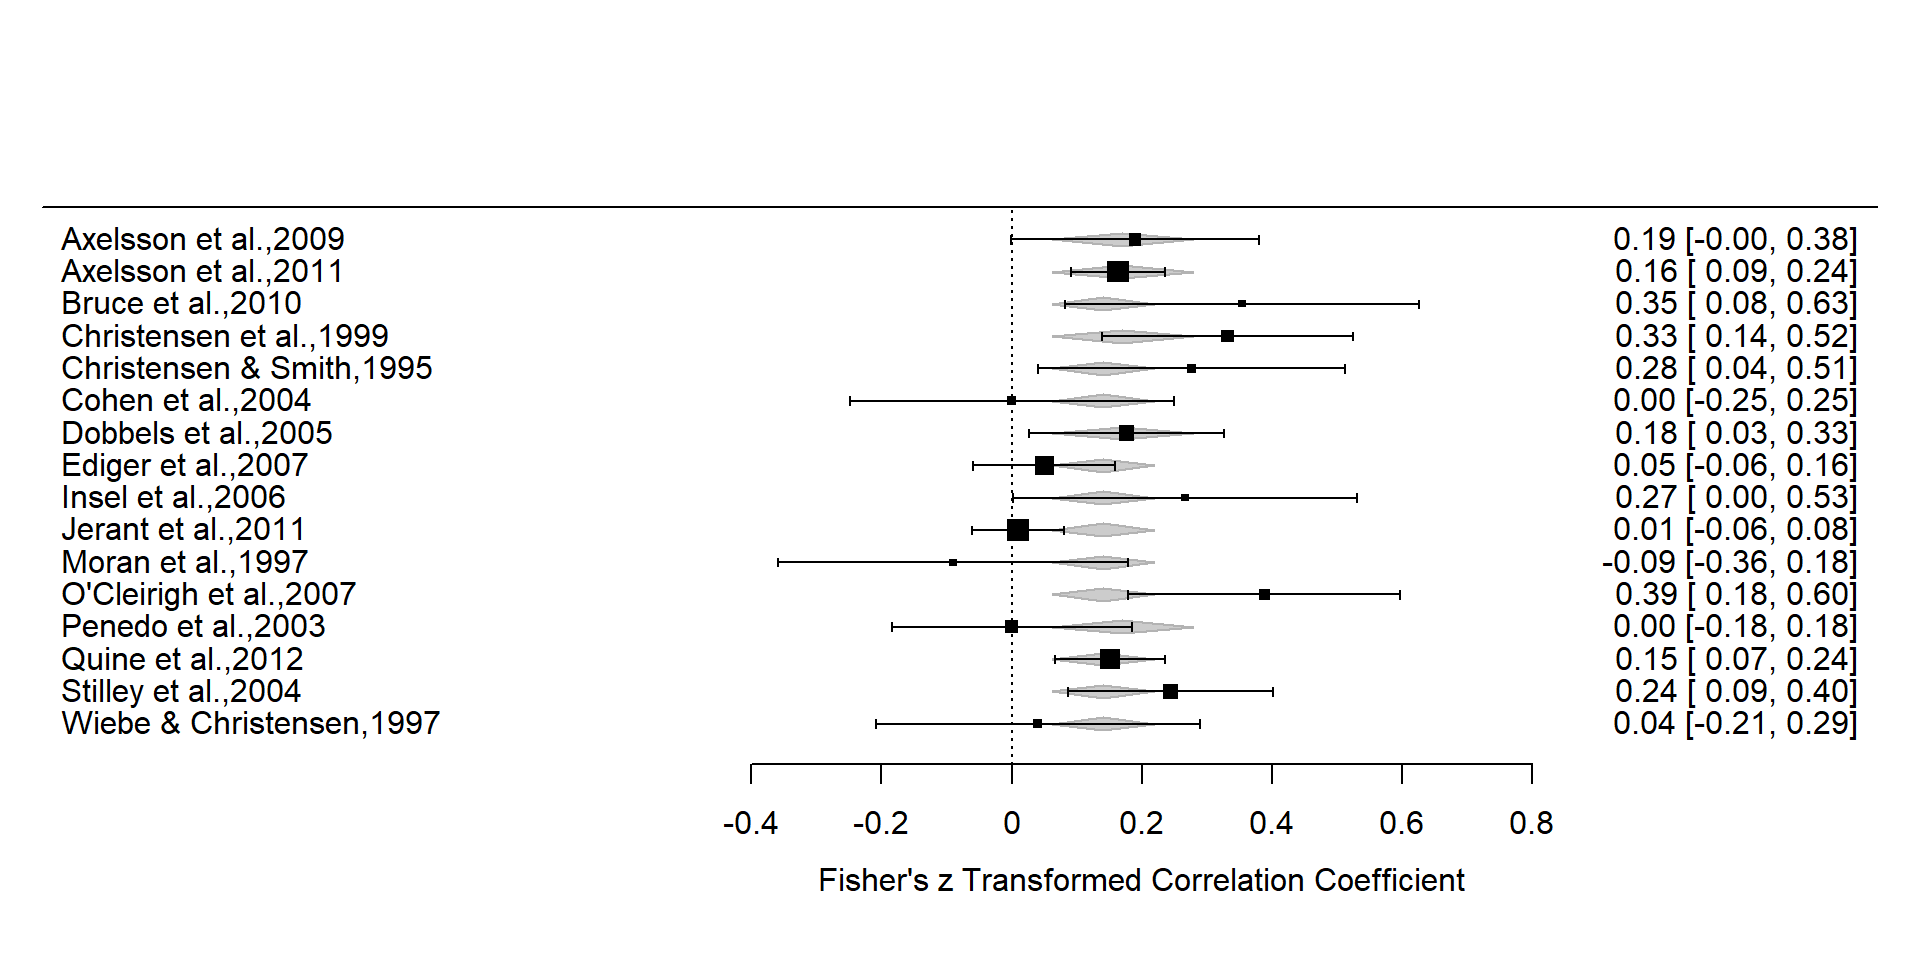
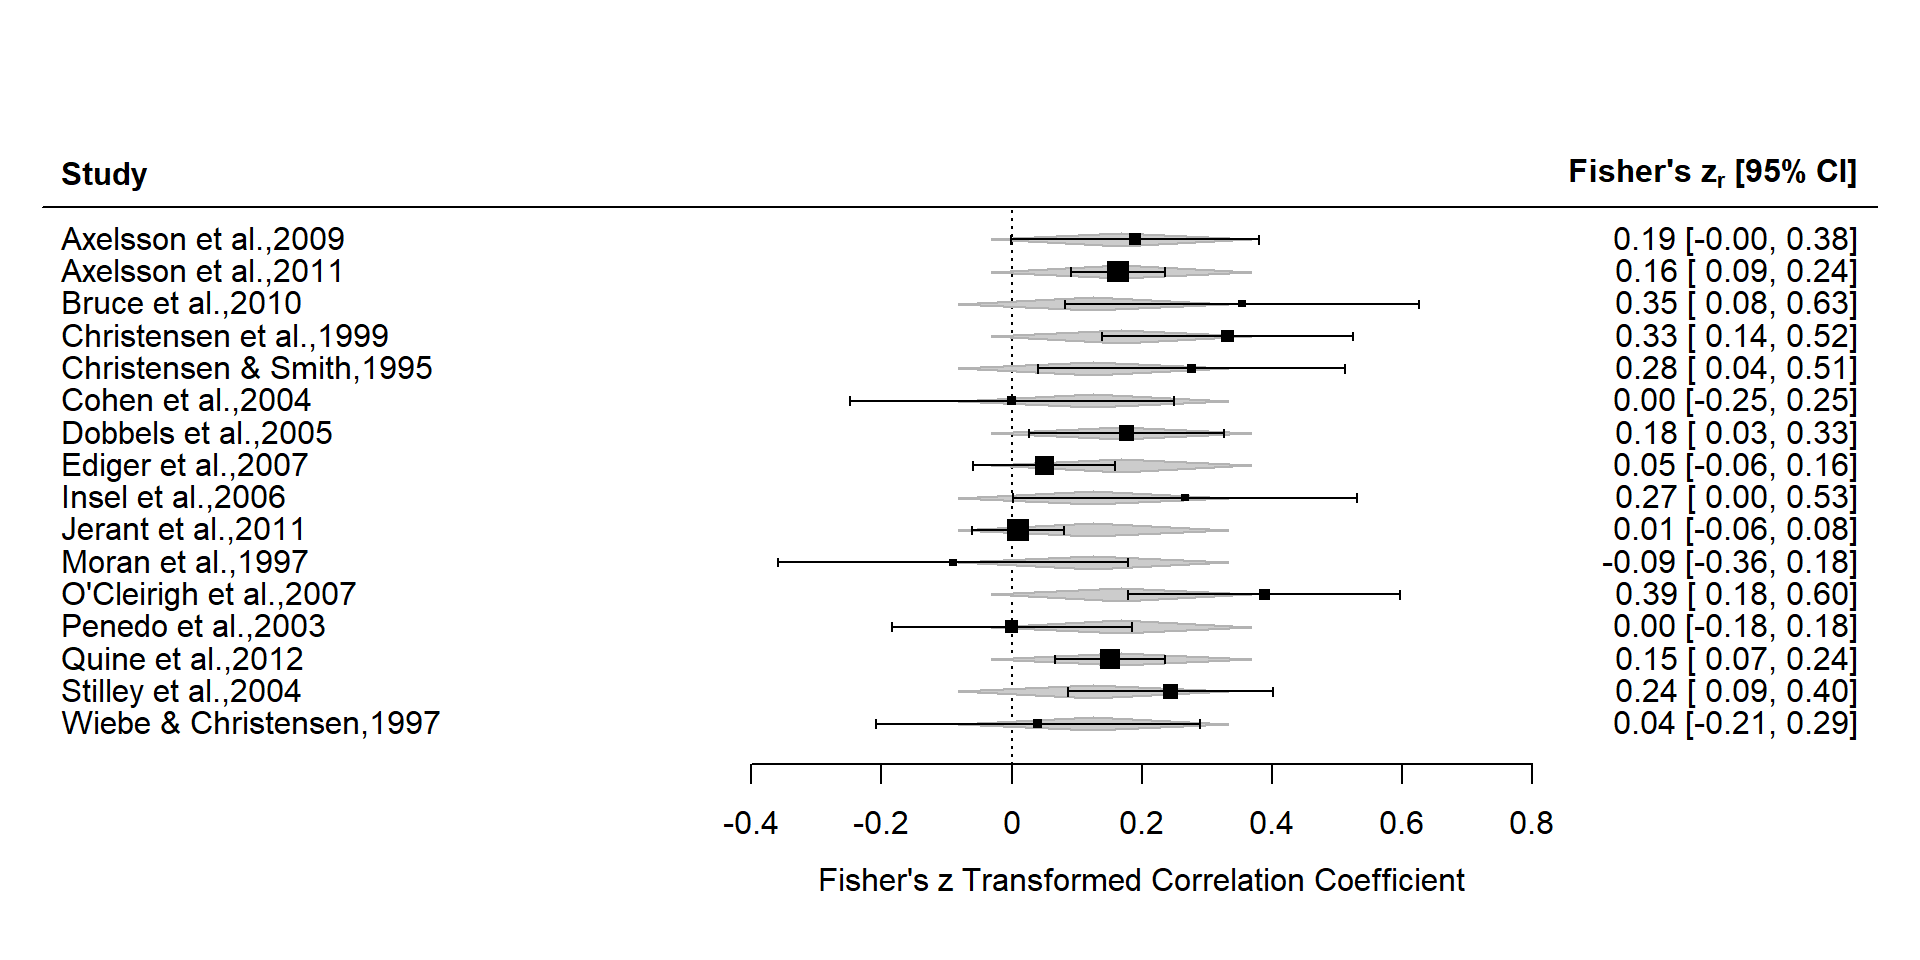
2025 version

diff --git a/docs/index.html b/docs/index.html
@@ -157,7 +157,7 @@ ul.task-list li input[type="checkbox"] {
 <!-- margin-sidebar -->
     <div id="quarto-margin-sidebar" class="sidebar margin-sidebar">
         
-    <h5 class="quarto-listing-category-title">Categories</h5><div class="quarto-listing-category category-default"><div class="category" data-category="">All <span class="quarto-category-count">(10)</span></div></div></div>
+    <h5 class="quarto-listing-category-title">Categories</h5><div class="quarto-listing-category category-default"><div class="category" data-category="">All <span class="quarto-category-count">(11)</span></div></div></div>
 <!-- main -->
 <main class="content quarto-banner-title-block column-page-left" id="quarto-document-content">
 
@@ -191,7 +191,7 @@ The following is a template of a study design where we randomly generated data t
 <a href="./posts/Assignment 1/index.html"> </a>
 </div>
 </div>
-<div class="quarto-post image-right" data-index="1" data-listing-date-sort="1741046400000" data-listing-file-modified-sort="1738532231158" data-listing-date-modified-sort="NaN" data-listing-reading-time-sort="10">
+<div class="quarto-post image-right" data-index="1" data-listing-date-sort="1743462000000" data-listing-file-modified-sort="1738532231158" data-listing-date-modified-sort="NaN" data-listing-reading-time-sort="10">
 <div class="thumbnail">
 <p><a href="./posts/Introduction to Advanced Statistics/index.html"> <img src="./posts/Introduction to Advanced Statistics/image1.jpg" class="thumbnail-image"> </a></p>
 </div>
@@ -211,7 +211,7 @@ Introduction to Advanced Statistics
 <div class="metadata">
 <a href="./posts/Introduction to Advanced Statistics/index.html">
 <div class="listing-date">
-Mar 4, 2025
+Apr 1, 2025
 </div>
 <div class="listing-author">
 Dr Lazaros Gonidis
@@ -219,7 +219,91 @@ Dr Lazaros Gonidis
 </a>
 </div>
 </div>
-<div class="quarto-post image-right" data-index="2" data-listing-date-sort="1739232000000" data-listing-file-modified-sort="1739271524861" data-listing-date-modified-sort="NaN" data-listing-reading-time-sort="6">
+<div class="quarto-post image-right" data-index="2" data-listing-date-sort="1743292800000" data-listing-file-modified-sort="1743500529704" data-listing-date-modified-sort="NaN" data-listing-reading-time-sort="10">
+<div class="thumbnail">
+<p><a href="./posts/Meta Analysis I/index.html"> <img src="./posts/Meta Analysis I/image1.jpg" class="thumbnail-image"> </a></p>
+</div>
+<div class="body">
+<a href="./posts/Meta Analysis I/index.html">
+<h3 class="no-anchor listing-title">
+Meta-Analysis I
+</h3>
+<div class="listing-subtitle">
+
+</div>
+<div class="listing-description">
+
+</div>
+</a>
+</div>
+<div class="metadata">
+<a href="./posts/Meta Analysis I/index.html">
+<div class="listing-date">
+Mar 30, 2025
+</div>
+<div class="listing-author">
+Dr Lazaros Gonidis
+</div>
+</a>
+</div>
+</div>
+<div class="quarto-post image-right" data-index="3" data-listing-date-sort="1743292800000" data-listing-file-modified-sort="1743500569860" data-listing-date-modified-sort="NaN" data-listing-reading-time-sort="1">
+<div class="thumbnail">
+<p><a href="./posts/Meta Analysis II/index.html"> <img src="./posts/Meta Analysis II/image1.jpg" class="thumbnail-image"> </a></p>
+</div>
+<div class="body">
+<a href="./posts/Meta Analysis II/index.html">
+<h3 class="no-anchor listing-title">
+Meta-Analysis II: Subgroup Analysis
+</h3>
+<div class="listing-subtitle">
+
+</div>
+<div class="listing-description">
+
+</div>
+</a>
+</div>
+<div class="metadata">
+<a href="./posts/Meta Analysis II/index.html">
+<div class="listing-date">
+Mar 30, 2025
+</div>
+<div class="listing-author">
+Dr Lazaros Gonidis
+</div>
+</a>
+</div>
+</div>
+<div class="quarto-post image-right" data-index="4" data-listing-date-sort="1739404800000" data-listing-file-modified-sort="1741084037624" data-listing-date-modified-sort="NaN" data-listing-reading-time-sort="7">
+<div class="thumbnail">
+<p><a href="./posts/Confirmatory Factor Analysis/index.html"> <img src="./posts/Confirmatory Factor Analysis/image1.jpg" class="thumbnail-image"> </a></p>
+</div>
+<div class="body">
+<a href="./posts/Confirmatory Factor Analysis/index.html">
+<h3 class="no-anchor listing-title">
+Confirmatory Factor Analysis
+</h3>
+<div class="listing-subtitle">
+
+</div>
+<div class="listing-description">
+
+</div>
+</a>
+</div>
+<div class="metadata">
+<a href="./posts/Confirmatory Factor Analysis/index.html">
+<div class="listing-date">
+Feb 13, 2025
+</div>
+<div class="listing-author">
+Dr Lazaros Gonidis
+</div>
+</a>
+</div>
+</div>
+<div class="quarto-post image-right" data-index="5" data-listing-date-sort="1739232000000" data-listing-file-modified-sort="1741084037627" data-listing-date-modified-sort="NaN" data-listing-reading-time-sort="6">
 <div class="thumbnail">
 <p><a href="./posts/Exploratory Factor Analysis/index.html"> <img src="./posts/Exploratory Factor Analysis/image1.jpg" class="thumbnail-image"> </a></p>
 </div>
@@ -247,7 +331,7 @@ Dr Lazaros Gonidis
 </a>
 </div>
 </div>
-<div class="quarto-post image-right" data-index="3" data-listing-date-sort="1738540800000" data-listing-file-modified-sort="1738582074078" data-listing-date-modified-sort="NaN" data-listing-reading-time-sort="6">
+<div class="quarto-post image-right" data-index="6" data-listing-date-sort="1738540800000" data-listing-file-modified-sort="1738582074078" data-listing-date-modified-sort="NaN" data-listing-reading-time-sort="6">
 <div class="thumbnail">
 <p><a href="./posts/Introduction to S.E.M/index.html"> <img src="./posts/Introduction to S.E.M/image1.jpg" class="thumbnail-image"> </a></p>
 </div>
@@ -275,7 +359,7 @@ Dr Lazaros Gonidis
 </a>
 </div>
 </div>
-<div class="quarto-post image-right" data-index="4" data-listing-date-sort="1713567600000" data-listing-file-modified-sort="1713739593523" data-listing-date-modified-sort="NaN" data-listing-reading-time-sort="5">
+<div class="quarto-post image-right" data-index="7" data-listing-date-sort="1713567600000" data-listing-file-modified-sort="1713739593523" data-listing-date-modified-sort="NaN" data-listing-reading-time-sort="5">
 <div class="thumbnail">
 <p><a href="./posts/Cross-Lagged Panel Models/index.html"> <img src="./posts/Cross-Lagged Panel Models/image1.jpg" class="thumbnail-image"> </a></p>
 </div>
@@ -303,14 +387,14 @@ Dr Lazaros Gonidis
 </a>
 </div>
 </div>
-<div class="quarto-post image-right" data-index="5" data-listing-date-sort="1711065600000" data-listing-file-modified-sort="1711367817013" data-listing-date-modified-sort="NaN" data-listing-reading-time-sort="1">
+<div class="quarto-post image-right" data-index="8" data-listing-date-sort="1710201600000" data-listing-file-modified-sort="1741084037625" data-listing-date-modified-sort="NaN" data-listing-reading-time-sort="1">
 <div class="thumbnail">
-<p><a href="./posts/Meta Analysis II/index.html"> <img src="./posts/Meta Analysis II/image1.jpg" class="thumbnail-image"> </a></p>
+<p><a href="./posts/Discussing Meta Analysis/index.html"> <img src="./posts/Discussing Meta Analysis/image1.jpg" class="thumbnail-image"> </a></p>
 </div>
 <div class="body">
-<a href="./posts/Meta Analysis II/index.html">
+<a href="./posts/Discussing Meta Analysis/index.html">
 <h3 class="no-anchor listing-title">
-Meta-Analysis II: Subgroup Analysis
+Discussing Meta Analysis
 </h3>
 <div class="listing-subtitle">
 
@@ -321,35 +405,7 @@ Meta-Analysis II: Subgroup Analysis
 </a>
 </div>
 <div class="metadata">
-<a href="./posts/Meta Analysis II/index.html">
-<div class="listing-date">
-Mar 22, 2024
-</div>
-<div class="listing-author">
-Dr Lazaros Gonidis
-</div>
-</a>
-</div>
-</div>
-<div class="quarto-post image-right" data-index="6" data-listing-date-sort="1710201600000" data-listing-file-modified-sort="1710723679466" data-listing-date-modified-sort="NaN" data-listing-reading-time-sort="10">
-<div class="thumbnail">
-<p><a href="./posts/Meta Analysis I/index.html"> <img src="./posts/Meta Analysis I/image1.jpg" class="thumbnail-image"> </a></p>
-</div>
-<div class="body">
-<a href="./posts/Meta Analysis I/index.html">
-<h3 class="no-anchor listing-title">
-Meta-Analysis I
-</h3>
-<div class="listing-subtitle">
-
-</div>
-<div class="listing-description">
-
-</div>
-</a>
-</div>
-<div class="metadata">
-<a href="./posts/Meta Analysis I/index.html">
+<a href="./posts/Discussing Meta Analysis/index.html">
 <div class="listing-date">
 Mar 12, 2024
 </div>
@@ -359,7 +415,7 @@ Dr Lazaros Gonidis
 </a>
 </div>
 </div>
-<div class="quarto-post image-right" data-index="7" data-listing-date-sort="1709424000000" data-listing-file-modified-sort="1741083837533" data-listing-date-modified-sort="NaN" data-listing-reading-time-sort="6">
+<div class="quarto-post image-right" data-index="9" data-listing-date-sort="1709424000000" data-listing-file-modified-sort="1741083837533" data-listing-date-modified-sort="NaN" data-listing-reading-time-sort="6">
 <div class="thumbnail">
 <p><a href="./posts/Latent Growth Models/index.html"> <img src="./posts/Latent Growth Models/image1.jpg" class="thumbnail-image"> </a></p>
 </div>
@@ -387,35 +443,7 @@ Dr Lazaros Gonidis
 </a>
 </div>
 </div>
-<div class="quarto-post image-right" data-index="8" data-listing-date-sort="1708300800000" data-listing-file-modified-sort="1709495680508" data-listing-date-modified-sort="NaN" data-listing-reading-time-sort="7">
-<div class="thumbnail">
-<p><a href="./posts/Confirmatory Factor Analysis/index.html"> <img src="./posts/Confirmatory Factor Analysis/image1.jpg" class="thumbnail-image"> </a></p>
-</div>
-<div class="body">
-<a href="./posts/Confirmatory Factor Analysis/index.html">
-<h3 class="no-anchor listing-title">
-Confirmatory Factor Analysis
-</h3>
-<div class="listing-subtitle">
-
-</div>
-<div class="listing-description">
-
-</div>
-</a>
-</div>
-<div class="metadata">
-<a href="./posts/Confirmatory Factor Analysis/index.html">
-<div class="listing-date">
-Feb 19, 2024
-</div>
-<div class="listing-author">
-Dr Lazaros Gonidis
-</div>
-</a>
-</div>
-</div>
-<div class="quarto-post image-right" data-index="9" data-listing-date-sort="1706313600000" data-listing-file-modified-sort="1707080074370" data-listing-date-modified-sort="NaN" data-listing-reading-time-sort="9">
+<div class="quarto-post image-right" data-index="10" data-listing-date-sort="1706313600000" data-listing-file-modified-sort="1707080074370" data-listing-date-modified-sort="NaN" data-listing-reading-time-sort="9">
 <div class="thumbnail">
 <p><a href="./posts/Introduction to Mediation (with lavaan)/index.html"> <img src="./posts/Introduction to Mediation (with lavaan)/image1.jpg" class="thumbnail-image"> </a></p>
 </div>

diff --git a/docs/posts/Meta Analysis II/index.html b/docs/posts/Meta Analysis II/index.html
@@ -11,7 +11,7 @@
   <meta name="generator" content="quarto-1.3.450">
 
   <meta name="author" content="Dr Lazaros Gonidis">
-  <meta name="dcterms.date" content="2024-03-22">
+  <meta name="dcterms.date" content="2025-03-30">
   <title>AdvancedStatistics - Meta-Analysis II: Subgroup Analysis</title>
   <meta name="apple-mobile-web-app-capable" content="yes">
   <meta name="apple-mobile-web-app-status-bar-style" content="black-translucent">
@@ -403,7 +403,7 @@ Dr Lazaros Gonidis
 </div>
 </div>
 
-  <p class="date">2024-03-22</p>
+  <p class="date">2025-03-30</p>
 </section>
 <section id="metafor-diagram" class="slide level2">
 <h2>metafor diagram</h2>
@@ -418,9 +418,10 @@ Dr Lazaros Gonidis
 <span id="cb1-2"><a href="#cb1-2"></a><span class="fu">library</span>(metafor)</span>
 <span id="cb1-3"><a href="#cb1-3"></a><span class="fu">library</span>(metadat)</span>
 <span id="cb1-4"><a href="#cb1-4"></a></span>
-<span id="cb1-5"><a href="#cb1-5"></a>df <span class="ot">&lt;-</span> <span class="fu">get</span>(<span class="fu">data</span>(dat.molloy2014))</span>
-<span id="cb1-6"><a href="#cb1-6"></a></span>
-<span id="cb1-7"><a href="#cb1-7"></a><span class="fu">head</span>(df)</span></code><button title="Copy to Clipboard" class="code-copy-button"><i class="bi"></i></button></pre></div>
+<span id="cb1-5"><a href="#cb1-5"></a><span class="co"># https://cran.r-project.org/web/packages/metadat/readme/README.html</span></span>
+<span id="cb1-6"><a href="#cb1-6"></a>df <span class="ot">&lt;-</span> <span class="fu">get</span>(<span class="fu">data</span>(dat.molloy2014))</span>
+<span id="cb1-7"><a href="#cb1-7"></a></span>
+<span id="cb1-8"><a href="#cb1-8"></a><span class="fu">head</span>(df)</span></code><button title="Copy to Clipboard" class="code-copy-button"><i class="bi"></i></button></pre></div>
 </details>
 <div class="cell-output cell-output-stdout">
 <pre><code>              authors year  ni    ri controls          design   a_measure
@@ -584,7 +585,7 @@ Wiebe &amp; Christensen,1997  4.1094 -0.1642     </code></pre>
 <div class="cell">
 <details>
 <summary>Code</summary>
-<div class="sourceCode cell-code" id="cb15"><pre class="sourceCode numberSource r number-lines code-with-copy"><code class="sourceCode r"><span id="cb15-1"><a href="#cb15-1"></a><span class="fu">funnel</span>(ma.res, <span class="at">las=</span><span class="dv">3</span>, <span class="at">digits =</span> <span class="fu">list</span>(2L,<span class="dv">2</span>))</span></code><button title="Copy to Clipboard" class="code-copy-button"><i class="bi"></i></button></pre></div>
+<div class="sourceCode cell-code" id="cb15"><pre class="sourceCode numberSource r number-lines code-with-copy"><code class="sourceCode r"><span id="cb15-1"><a href="#cb15-1"></a><span class="fu">funnel</span>(ma.res, <span class="at">digits =</span> <span class="fu">list</span>(1L,<span class="dv">2</span>))</span></code><button title="Copy to Clipboard" class="code-copy-button"><i class="bi"></i></button></pre></div>
 </details>
 
 </div>
@@ -613,33 +614,34 @@ Limit Estimate (as sei -&gt; 0):   b = 0.0790 (CI: -0.0686, 0.2266)</code></pre>
 <div class="cell">
 <details>
 <summary>Code</summary>
-<div class="sourceCode cell-code" id="cb18"><pre class="sourceCode numberSource r number-lines code-with-copy"><code class="sourceCode r"><span id="cb18-1"><a href="#cb18-1"></a>ma.res1 <span class="ot">&lt;-</span> <span class="fu">rma</span>(yi, vi, <span class="at">data=</span>df, <span class="at">mods =</span> <span class="sc">~</span><span class="fu">factor</span>(design))</span>
-<span id="cb18-2"><a href="#cb18-2"></a>ma.res1</span></code><button title="Copy to Clipboard" class="code-copy-button"><i class="bi"></i></button></pre></div>
+<div class="sourceCode cell-code" id="cb18"><pre class="sourceCode numberSource r number-lines code-with-copy"><code class="sourceCode r"><span id="cb18-1"><a href="#cb18-1"></a><span class="co"># ma.res &lt;- rma(yi, vi, data=df)</span></span>
+<span id="cb18-2"><a href="#cb18-2"></a>ma.res1 <span class="ot">&lt;-</span> <span class="fu">rma</span>(yi, vi, <span class="at">data=</span>df, <span class="at">mods =</span> <span class="sc">~</span><span class="fu">factor</span>(a_measure))</span>
+<span id="cb18-3"><a href="#cb18-3"></a>ma.res1</span></code><button title="Copy to Clipboard" class="code-copy-button"><i class="bi"></i></button></pre></div>
 </details>
 <div class="cell-output cell-output-stdout">
 <pre><code>
 Mixed-Effects Model (k = 16; tau^2 estimator: REML)
 
-tau^2 (estimated amount of residual heterogeneity):     0.0090 (SE = 0.0062)
-tau (square root of estimated tau^2 value):             0.0946
-I^2 (residual heterogeneity / unaccounted variability): 61.47%
-H^2 (unaccounted variability / sampling variability):   2.60
+tau^2 (estimated amount of residual heterogeneity):     0.0087 (SE = 0.0060)
+tau (square root of estimated tau^2 value):             0.0931
+I^2 (residual heterogeneity / unaccounted variability): 60.73%
+H^2 (unaccounted variability / sampling variability):   2.55
 R^2 (amount of heterogeneity accounted for):            0.00%
 
 Test for Residual Heterogeneity:
-QE(df = 14) = 34.8274, p-val = 0.0016
+QE(df = 14) = 33.0344, p-val = 0.0028
 
 Test of Moderators (coefficient 2):
-QM(df = 1) = 0.1911, p-val = 0.6620
+QM(df = 1) = 0.4289, p-val = 0.5125
 
 Model Results:
 
-                           estimate      se     zval    pval    ci.lb   ci.ub 
-intrcpt                      0.1701  0.0551   3.0858  0.0020   0.0621  0.2781 
-factor(design)prospective   -0.0298  0.0682  -0.4372  0.6620  -0.1636  0.1039 
-                              
-intrcpt                    ** 
-factor(design)prospective     
+                              estimate      se    zval    pval    ci.lb   ci.ub 
+intrcpt                         0.1253  0.0500  2.5054  0.0122   0.0273  0.2233 
+factor(a_measure)self-report    0.0428  0.0653  0.6549  0.5125  -0.0853  0.1709 
+                                
+intrcpt                       * 
+factor(a_measure)self-report    
 
 ---
 Signif. codes:  0 '***' 0.001 '**' 0.01 '*' 0.05 '.' 0.1 ' ' 1</code></pre>
@@ -648,7 +650,7 @@ Signif. codes:  0 '***' 0.001 '**' 0.01 '*' 0.05 '.' 0.1 ' ' 1</code></pre>
 <div class="cell">
 <details>
 <summary>Code</summary>
-<div class="sourceCode cell-code" id="cb20"><pre class="sourceCode numberSource r number-lines code-with-copy"><code class="sourceCode r"><span id="cb20-1"><a href="#cb20-1"></a><span class="fu">forest</span>(ma.res1)</span></code><button title="Copy to Clipboard" class="code-copy-button"><i class="bi"></i></button></pre></div>
+<div class="sourceCode cell-code" id="cb20"><pre class="sourceCode numberSource r number-lines code-with-copy"><code class="sourceCode r"><span id="cb20-1"><a href="#cb20-1"></a><span class="fu">forest</span>(ma.res1, <span class="at">addpred =</span> <span class="cn">TRUE</span>, <span class="at">header =</span> <span class="cn">TRUE</span>)</span></code><button title="Copy to Clipboard" class="code-copy-button"><i class="bi"></i></button></pre></div>
 </details>
 
 </div>

diff --git a/docs/posts/Meta Analysis I/index.html b/docs/posts/Meta Analysis I/index.html
@@ -11,7 +11,7 @@
   <meta name="generator" content="quarto-1.3.450">
 
   <meta name="author" content="Dr Lazaros Gonidis">
-  <meta name="dcterms.date" content="2024-03-12">
+  <meta name="dcterms.date" content="2025-03-30">
   <title>AdvancedStatistics - Meta-Analysis I</title>
   <meta name="apple-mobile-web-app-capable" content="yes">
   <meta name="apple-mobile-web-app-status-bar-style" content="black-translucent">
@@ -403,7 +403,7 @@ Dr Lazaros Gonidis
 </div>
 </div>
 
-  <p class="date">2024-03-12</p>
+  <p class="date">2025-03-30</p>
 </section>
 <section id="todays-aims" class="slide level2">
 <h2>Today’s Aims</h2>
@@ -428,7 +428,7 @@ Dr Lazaros Gonidis
 <li>As mentioned above, we can shed more light in the case of conflicting results</li>
 <li>Makes is possible to compare subgroups</li>
 </ol>
-<p>Actually plenty of other strenghts …</p>
+<p>Actually plenty of other strengths …</p>
 </section>
 <section id="weaknesses-of-meta-analysis" class="slide level2">
 <h2>Weaknesses of meta-analysis</h2>
@@ -863,8 +863,8 @@ H^2      2.6132  1.3383  8.5139 </code></pre>
 </div>
 </div>
 </section>
-<section id="exploring-for-influencial-studies" class="slide level2">
-<h2>Exploring for influencial studies</h2>
+<section id="exploring-for-influential-studies" class="slide level2">
+<h2>Exploring for influential studies</h2>
 <div class="cell">
 <details>
 <summary>Code</summary>
